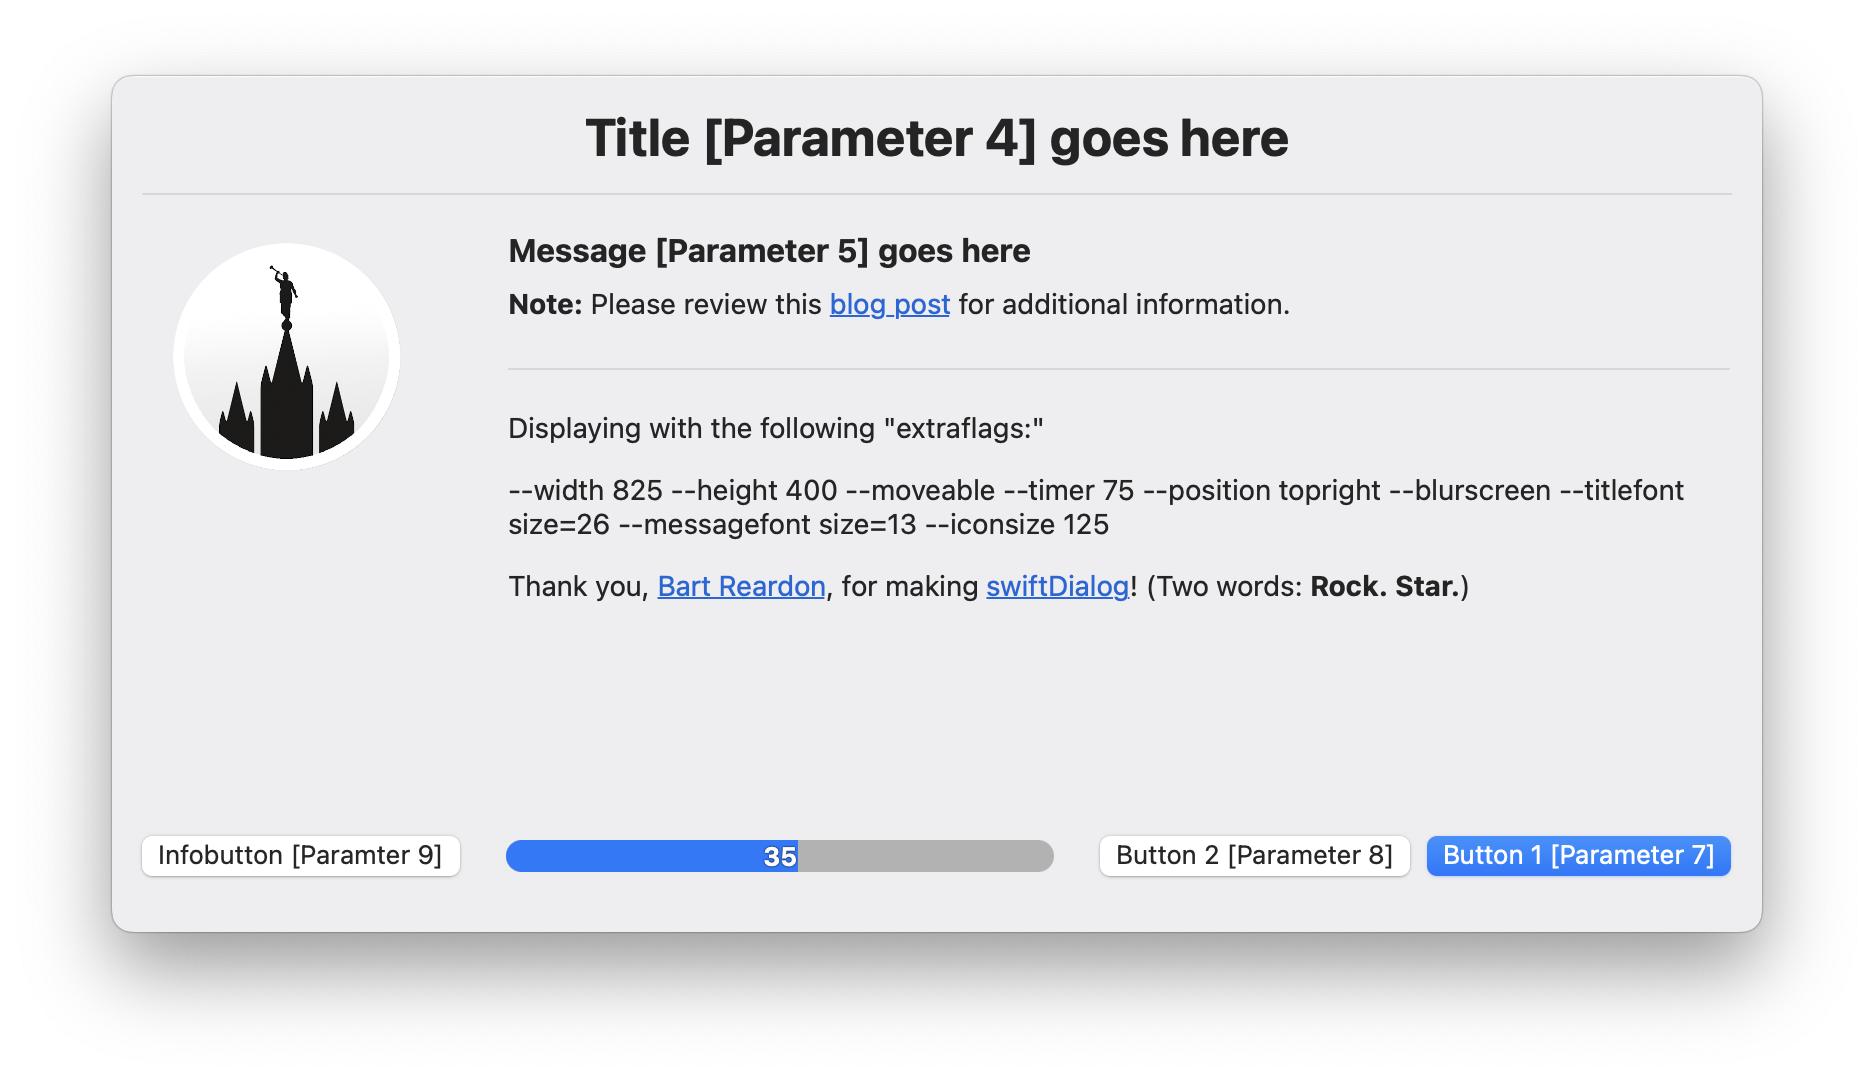
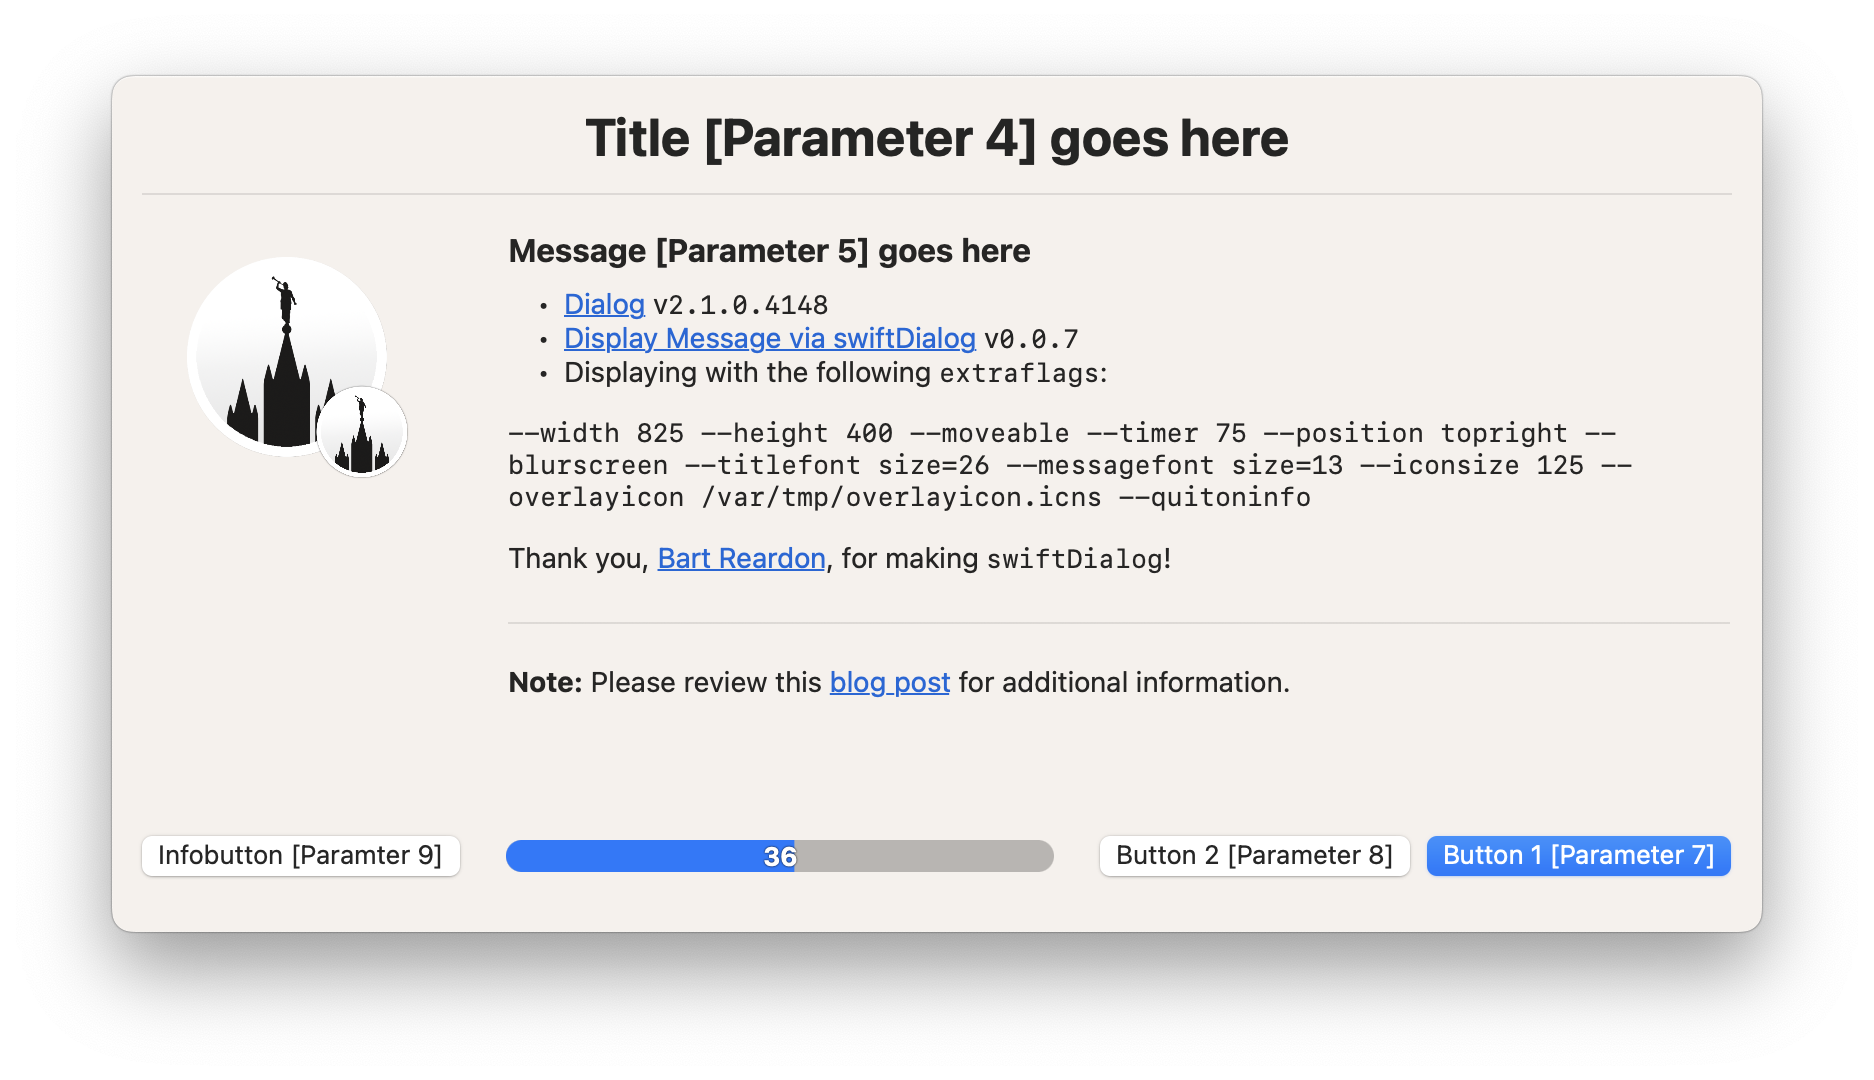
0.0.7

diff --git a/Display Message/README.md b/Display Message/README.md
@@ -1,15 +1,16 @@
 # Display Message via swiftDialog
 
-> Leverages [swiftDialog](https://github.com/bartreardon/swiftDialog/releases) and Jamf Pro Policy Script Parameters to display a message to end-users.
+> Leverage `switftDialog` and Jamf Pro Policy Script Parameters to easily display engaging end-user messages.
 
 ![Upgrade to macOS Ventura](images/Upgrade_to_Ventura.png "Upgrade to macOS Ventura")
 ![Display Message via Dialog](images/Display-Message-via-Dialog-Instructions.png "Display Message via Dialog")
 
 
+
 ## Introduction
-Using Bart Reardon's [swiftDialog](https://github.com/bartreardon/swiftDialog/wiki) and Jamf Pro Policy Script Parameters, easily create engaging end-user messages.
+Using Bart Reardon's `swiftDialog` and Jamf Pro Policy Script Parameters, creating engaging end-user messages is easy.
 
-[Continue reading …](https://snelson.us/2022/12/display-message-via-swiftdialog-0-0-6/)
+[Continue reading …](https://snelson.us/2023/03/display-message-0-0-7-via-swiftdialog/)
 
-## Script
+### Script
 - [Display-Message-via-Dialog.bash](Display-Message-via-Dialog.bash)
